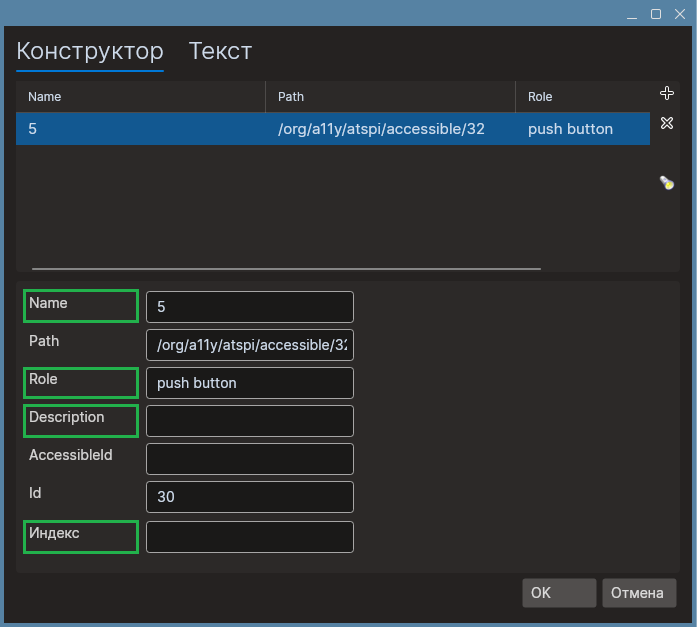
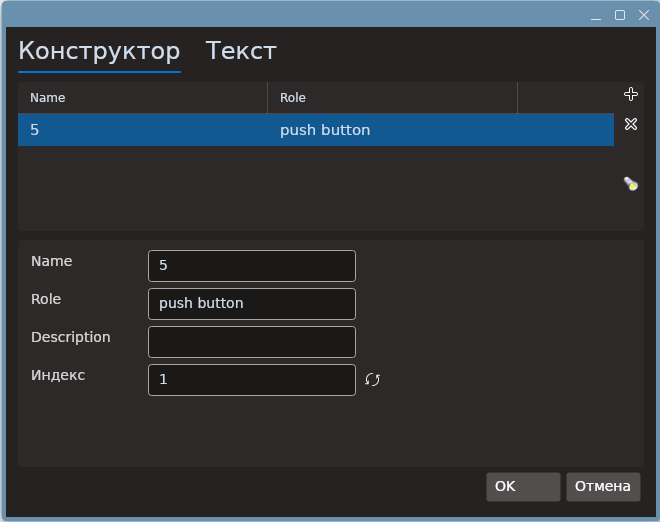
readme.md: updated the document and some images

diff --git a/studio/linux/process/searchpatterns/readme.md b/studio/linux/process/searchpatterns/readme.md
@@ -62,11 +62,6 @@ Primo RPA поддерживает поиск в категориях:
 
 ![](../../resources/process/searchpatterns/селекторы-калькулятора.png)
 
-> *В настоящее время для построения паттерна поиска можно полагаться только на значение следующих свойств **Name**, **Role**, **Description** и **Index** (Индекс)*, значения остальных свойств или не удается получить с использованием текущего механизма, или не являются уникальными при повторном запуске приложения. Например значение свойства **Path** является уникальным только для объекта окна, но не является уникальным для элементов принадлежащем окну*
-
-
-![](../../resources/process/searchpatterns/селекторы-калькулятора2.png)
-
 Необходимо выбрать такую комбинацию свойств, которая была бы уникальна и неизменна для данного компонента. Оставим только те свойства, которые являются надежными. Для нашего случая выберем параметры **Name**, **Role** и нажмем **ОК** — селектор создан. Он сохранится в JSON-файле шаблона поиска. Если просмотреть готовый шаблон через окно редактора, он будет выглядеть таким образом:
 
 ![](../../resources/process/searchpatterns/шаблон-поиска.-редактор.png)
